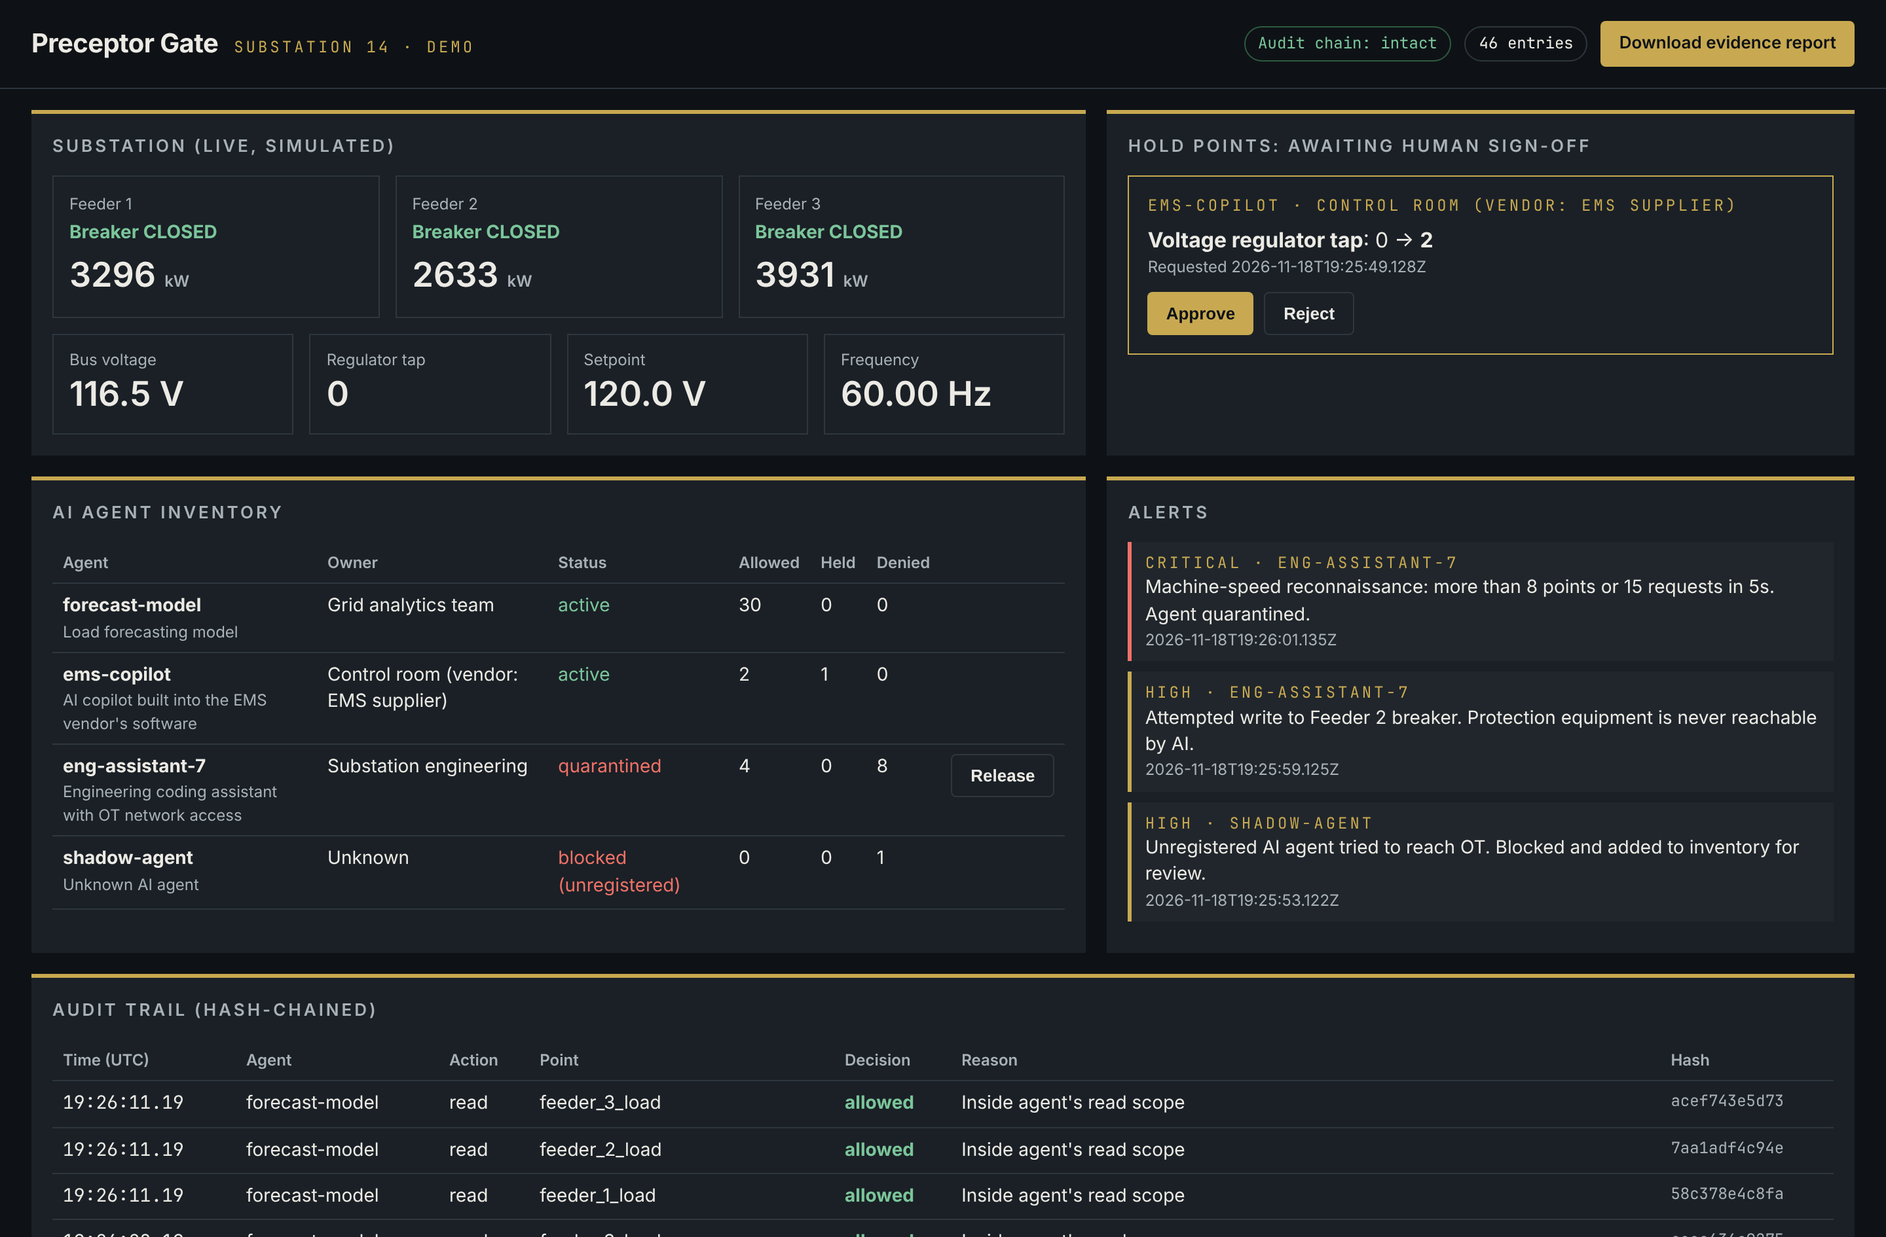
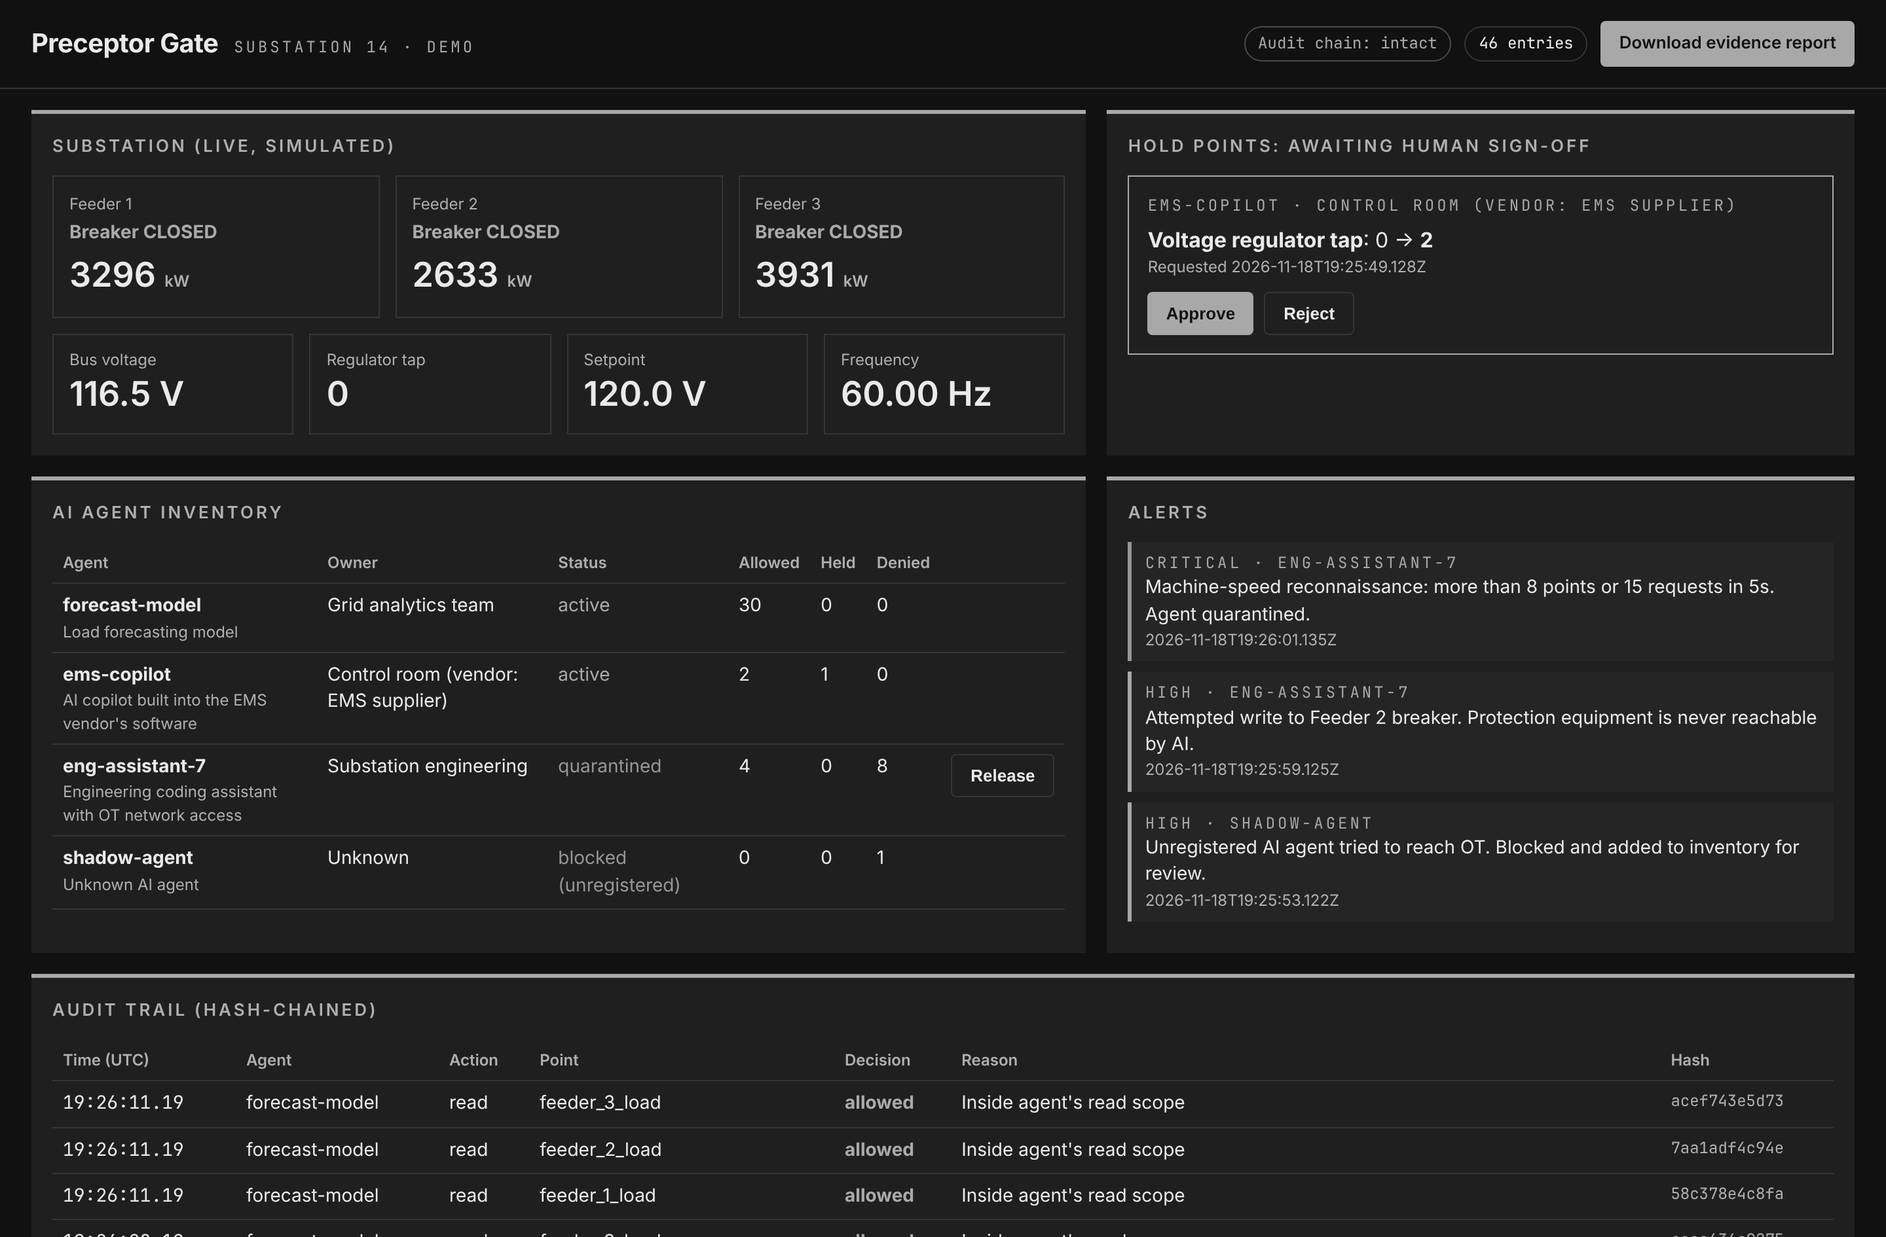
Deck: strictly neutral black, gray and white; grayscale demo image
Claude-Session: https://claude.ai/code/session_018mB2KEptUMZPq77VteqMr3

diff --git a/deck/project/slides/whynow.html b/deck/project/slides/whynow.html
@@ -2,12 +2,12 @@
 <p class="eyebrow">Why now</p>
 <h2 style="width:1600px;">New rules and new threats are arriving at the same time.</h2>
 <div class="cards cols-4" style="flex:1; align-items:start;">
-<div class="rise" style="--i:0; border-top:4px solid #0E0E0F; padding-top:24px; display:flex; flex-direction:column; gap:16px;"><p style="font-family:'Space Grotesk', Arial, sans-serif; font-size:44px; font-weight:600;">2025</p><p class="text" style="color:#0E0E0F;">US regulators order power companies to monitor activity inside their control networks. Deadline: 2028.</p></div>
-<div class="rise" style="--i:1; border-top:4px solid #0E0E0F; padding-top:24px; display:flex; flex-direction:column; gap:16px;"><p style="font-family:'Space Grotesk', Arial, sans-serif; font-size:44px; font-weight:600;">2025</p><p class="text" style="color:#0E0E0F;">The first known cyberattack campaign run mostly by AI is made public.</p></div>
-<div class="rise" style="--i:2; border-top:4px solid #0E0E0F; padding-top:24px; display:flex; flex-direction:column; gap:16px;"><p style="font-family:'Space Grotesk', Arial, sans-serif; font-size:44px; font-weight:600;">2026</p><p class="text" style="color:#0E0E0F;">Utilities move AI from experiments into daily operations.</p></div>
-<div class="rise" style="--i:3; border-top:4px solid #0E0E0F; padding-top:24px; display:flex; flex-direction:column; gap:16px;"><p style="font-family:'Space Grotesk', Arial, sans-serif; font-size:44px; font-weight:600;">2027</p><p class="text" style="color:#0E0E0F;">EU rules for high-risk AI, including AI in critical infrastructure, are due to apply.</p></div>
+<div class="rise" style="--i:0; border-top:4px solid #0F0F0F; padding-top:24px; display:flex; flex-direction:column; gap:16px;"><p style="font-family:'Space Grotesk', Arial, sans-serif; font-size:44px; font-weight:600;">2025</p><p class="text" style="color:#0F0F0F;">US regulators order power companies to monitor activity inside their control networks. Deadline: 2028.</p></div>
+<div class="rise" style="--i:1; border-top:4px solid #0F0F0F; padding-top:24px; display:flex; flex-direction:column; gap:16px;"><p style="font-family:'Space Grotesk', Arial, sans-serif; font-size:44px; font-weight:600;">2025</p><p class="text" style="color:#0F0F0F;">The first known cyberattack campaign run mostly by AI is made public.</p></div>
+<div class="rise" style="--i:2; border-top:4px solid #0F0F0F; padding-top:24px; display:flex; flex-direction:column; gap:16px;"><p style="font-family:'Space Grotesk', Arial, sans-serif; font-size:44px; font-weight:600;">2026</p><p class="text" style="color:#0F0F0F;">Utilities move AI from experiments into daily operations.</p></div>
+<div class="rise" style="--i:3; border-top:4px solid #0F0F0F; padding-top:24px; display:flex; flex-direction:column; gap:16px;"><p style="font-family:'Space Grotesk', Arial, sans-serif; font-size:44px; font-weight:600;">2027</p><p class="text" style="color:#0F0F0F;">EU rules for high-risk AI, including AI in critical infrastructure, are due to apply.</p></div>
 </div>
 <p style="font-family:'Space Grotesk', Arial, sans-serif; font-size:44px; font-weight:600; width:1600px;">Utilities must start watching inside their networks, and AI is now one of the things in there.</p>
-<div class="foot"><p style="color:#0E0E0F;">Sources: FERC Order 907 (NERC CIP-015); Anthropic; Cisco; EU Digital Omnibus provisional agreement (May 2026)</p><p class="pg" style="color:#0E0E0F;"></p></div>
+<div class="foot"><p style="color:#0F0F0F;">Sources: FERC Order 907 (NERC CIP-015); Anthropic; Cisco; EU Digital Omnibus provisional agreement (May 2026)</p><p class="pg" style="color:#0F0F0F;"></p></div>
 <aside>[40s] Why now? Two forces are arriving together. On the rules side, US regulators have ordered power companies to monitor activity inside their control networks, with a 2028 deadline, and Europe’s rules for high-risk AI are coming. On the threat side, the first AI-run cyberattacks are public, and utilities are moving AI from experiments into daily operations. Utilities have to start watching inside their networks, and AI is now one of the things in there.</aside>
 </section>

diff --git a/deck/project/slides/summary.html b/deck/project/slides/summary.html
@@ -2,11 +2,11 @@
 <p class="eyebrow">In 30 seconds</p>
 <h2>Preceptor Defense, in five lines.</h2>
 <div style="display:grid; grid-template-columns:300px 1fr; column-gap:48px; row-gap:28px; align-items:baseline;">
-<p class="eyebrow" style="font-size:24px;">The problem</p><p class="lede" style="color:#0E0E0F;">Power companies are connecting AI to the systems that run the grid. No one controls what it can do, and hackers now use AI too.</p>
-<p class="eyebrow" style="font-size:24px;">What we do</p><p class="lede" style="color:#0E0E0F;">A checkpoint between AI and the physical world. Safe actions pass, risky ones wait for a human, dangerous ones are blocked, and everything is recorded.</p>
-<p class="eyebrow" style="font-size:24px;">Why now</p><p class="lede" style="color:#0E0E0F;">New US grid-security rules, AI moving into everyday utility operations, and the first cyberattacks run mostly by AI.</p>
-<p class="eyebrow" style="font-size:24px;">How we earn</p><p class="lede" style="color:#0E0E0F;">Annual software subscriptions. First 3,000 US power companies, then water, pipelines and airports.</p>
-<p class="eyebrow" style="font-size:24px;">The ask</p><p class="lede" style="color:#0E0E0F;">$[__] pre-seed to turn our working prototype into paid pilots.</p>
+<p class="eyebrow" style="font-size:24px;">The problem</p><p class="lede" style="color:#0F0F0F;">Power companies are connecting AI to the systems that run the grid. No one controls what it can do, and hackers now use AI too.</p>
+<p class="eyebrow" style="font-size:24px;">What we do</p><p class="lede" style="color:#0F0F0F;">A checkpoint between AI and the physical world. Safe actions pass, risky ones wait for a human, dangerous ones are blocked, and everything is recorded.</p>
+<p class="eyebrow" style="font-size:24px;">Why now</p><p class="lede" style="color:#0F0F0F;">New US grid-security rules, AI moving into everyday utility operations, and the first cyberattacks run mostly by AI.</p>
+<p class="eyebrow" style="font-size:24px;">How we earn</p><p class="lede" style="color:#0F0F0F;">Annual software subscriptions. First 3,000 US power companies, then water, pipelines and airports.</p>
+<p class="eyebrow" style="font-size:24px;">The ask</p><p class="lede" style="color:#0F0F0F;">$[__] pre-seed to turn our working prototype into paid pilots.</p>
 </div>
 <div class="foot"><p>Preceptor Defense · Confidential</p><p class="pg"></p></div>
 <aside>[45s] Power companies are connecting AI to the systems that run the grid, and right now nobody controls what that AI is allowed to do. At the same time, hackers have started using AI to attack. Preceptor is a checkpoint between AI and the physical world. Safe actions go through, risky ones wait for a human, dangerous ones are blocked, and everything is recorded. The timing is driven by new federal grid-security rules and AI moving into everyday utility operations. We sell annual subscriptions, starting with the 3,000 power companies in the US. And we’re raising $[__] to turn our working prototype into paid pilots. Let me walk you through it.</aside>

diff --git a/deck/project/slides/vision.html b/deck/project/slides/vision.html
@@ -3,10 +3,10 @@
 <h1 class="rise" style="--i:0; width:1500px;">Preceptor makes it safe to let software act on the physical world.</h1>
 <div class="spacer"></div>
 <div class="cards cols-3">
-<div class="rise" style="--i:1; border-top:4px solid #0E0E0F; padding-top:24px; display:flex; flex-direction:column; gap:12px;"><p class="eyebrow">Today</p><h3>AI agents and copilots</h3><p class="text" style="color:#0E0E0F;">Reaching into grid control systems through vendor software and engineers’ tools.</p></div>
-<div class="rise" style="--i:2; border-top:4px solid #0E0E0F; padding-top:24px; display:flex; flex-direction:column; gap:12px;"><p class="eyebrow">Next</p><h3>Automation and vendor access</h3><p class="text" style="color:#0E0E0F;">Scripts, integrations and third-party technicians, governed by the same hold points.</p></div>
-<div class="rise" style="--i:3; border-top:4px solid #0E0E0F; padding-top:24px; display:flex; flex-direction:column; gap:12px;"><p class="eyebrow">Tomorrow</p><h3>Autonomous machines</h3><p class="text" style="color:#0E0E0F;">Robots, drones and self-running plants across water, pipelines and transport.</p></div>
+<div class="rise" style="--i:1; border-top:4px solid #0F0F0F; padding-top:24px; display:flex; flex-direction:column; gap:12px;"><p class="eyebrow">Today</p><h3>AI agents and copilots</h3><p class="text" style="color:#0F0F0F;">Reaching into grid control systems through vendor software and engineers’ tools.</p></div>
+<div class="rise" style="--i:2; border-top:4px solid #0F0F0F; padding-top:24px; display:flex; flex-direction:column; gap:12px;"><p class="eyebrow">Next</p><h3>Automation and vendor access</h3><p class="text" style="color:#0F0F0F;">Scripts, integrations and third-party technicians, governed by the same hold points.</p></div>
+<div class="rise" style="--i:3; border-top:4px solid #0F0F0F; padding-top:24px; display:flex; flex-direction:column; gap:12px;"><p class="eyebrow">Tomorrow</p><h3>Autonomous machines</h3><p class="text" style="color:#0F0F0F;">Robots, drones and self-running plants across water, pipelines and transport.</p></div>
 </div>
-<div class="foot"><p style="color:#0E0E0F;">Preceptor Defense · Confidential</p><p class="pg" style="color:#0E0E0F;"></p></div>
+<div class="foot"><p style="color:#0F0F0F;">Preceptor Defense · Confidential</p><p class="pg" style="color:#0F0F0F;"></p></div>
 <aside>[30s] Here’s the bigger picture. More and more software is getting permission to move physical things. Today it’s AI assistants, next it’s automation and outside vendors, and eventually it’s robots, drones and self-running plants. All of it needs a safety layer. Our vision is that Preceptor makes it safe to let software act on the physical world. We start where it’s most urgent: AI on the grid.</aside>
 </section>

diff --git a/deck/project/slides/gap.html b/deck/project/slides/gap.html
@@ -4,7 +4,7 @@
 <div class="cards cols-3" style="flex:1; align-items:stretch;">
 <div class="card rise" style="--i:0;"><p class="tag">GRID SECURITY TOOLS</p><h3>See the equipment, not the AI</h3><p class="text">Companies like Dragos and Claroty watch grid equipment, but can’t tell which AI sent a command or why.</p></div>
 <div class="card rise" style="--i:1;"><p class="tag">AI SECURITY TOOLS</p><h3>See the AI, not the grid</h3><p class="text">Tools now owned by Palo Alto, Check Point and SentinelOne check what AI says, but don’t know when an action could cut power.</p></div>
-<div class="card rise" style="--i:2; background:#0E0E0F; border-top-color:#D4D4D2;"><p class="tag" style="color:#D4D4D2;">PRECEPTOR</p><h3 style="color:#F5F5F4;">Sees both</h3><p class="text" style="color:#B0B0B0;">We know which AI is acting, and what that action would do in the physical world.</p></div>
+<div class="card rise" style="--i:2; background:#0F0F0F; border-top-color:#D4D4D4;"><p class="tag" style="color:#D4D4D4;">PRECEPTOR</p><h3 style="color:#F5F5F5;">Sees both</h3><p class="text" style="color:#B0B0B0;">We know which AI is acting, and what that action would do in the physical world.</p></div>
 </div>
 <div class="foot"><p>Preceptor Defense · Confidential</p><p class="pg"></p></div>
 <aside>[45s] So why can’t existing tools handle this? Because each one sees half the picture. Grid security companies like Dragos and Claroty are very good at watching grid equipment, but they can’t tell which AI sent a command. AI security tools, the ones Palo Alto, Check Point and SentinelOne have been buying, check what an AI says, but they don’t know that an action could cut power to a city. Preceptor sees both: which AI is acting, and what that action would do in the real world.</aside>

diff --git a/deck/project/slides/platform.html b/deck/project/slides/platform.html
@@ -9,7 +9,7 @@
 <div class="card rise" style="--i:4;"><p class="tag">YEAR 3</p><h3>Certification</h3><p class="text">Test vendors’ AI on a simulated grid before it ships.</p></div>
 <div class="card rise" style="--i:5;"><p class="tag">YEAR 4</p><h3>Threat intel</h3><p class="text">Data on AI attacks seen across all customers.</p></div>
 <div class="card rise" style="--i:6;"><p class="tag">FROM DAY 1</p><h3>Services</h3><p class="text">Assessments, testing and incident response.</p></div>
-<div class="card rise" style="--i:7; background:#D4D4D2;"><p class="tag" style="color:#0E0E0F;">FOUNDATION</p><h3 style="color:#0E0E0F;">Preceptor core</h3><p class="text" style="color:#0E0E0F;">Knows what every digital command does in the real world.</p></div>
+<div class="card rise" style="--i:7; background:#D4D4D4;"><p class="tag" style="color:#0F0F0F;">FOUNDATION</p><h3 style="color:#0F0F0F;">Preceptor core</h3><p class="text" style="color:#0F0F0F;">Knows what every digital command does in the real world.</p></div>
 </div>
 <div class="foot"><p>Preceptor Defense · Confidential</p><p class="pg"></p></div>
 <aside>[40s] Over time this becomes a platform. In year one we sell two products: AI governance and compliance proof. From there we add vendor access control, attack detection, a certification program where grid software vendors pay to have their AI tested, and threat intelligence from across our customers. It all sits on one core: a library that knows what every digital command does physically. That’s the hard part to build, and it compounds.</aside>

diff --git a/deck/project/slides/problem.html b/deck/project/slides/problem.html
@@ -10,7 +10,7 @@
 <div class="card rise" style="--i:2;"><h3>AI tools get real access</h3><p class="text">Engineers connect AI tools to systems that sit right next to the grid’s controls.</p></div>
 <div class="card rise" style="--i:3;"><h3>No one can say what the AI touched</h3><p class="text">No list of AI systems, no rules for them, and no record a regulator would accept.</p></div>
 </div>
-<p class="lede" style="color:#0E0E0F;"><b>A mistake here isn’t a data leak. It’s a blackout.</b></p>
+<p class="lede" style="color:#0F0F0F;"><b>A mistake here isn’t a data leak. It’s a blackout.</b></p>
 <div class="foot"><p>Source: Cisco, 2026 State of Industrial AI: Utilities (vendor survey)</p><p class="pg"></p></div>
 <aside>[60s] Start with the problem. Sixty-two percent of utilities say they’re already rolling out AI at scale, and that security is what’s holding them back. AI is showing up in three ways. It’s built into the software that runs the grid, often switched on by a routine update. Engineers are connecting AI tools to systems that sit right next to the controls. And if you ask a utility, “What did your AI touch last week?”, nobody can answer. There’s no list, no rules and no record a regulator would accept. Here’s the key point: in most industries an AI mistake leaks data. Here, it causes a blackout.</aside>
 </section>

diff --git a/deck/project/slides/plan.html b/deck/project/slides/plan.html
@@ -7,7 +7,7 @@
 <div class="card rise" style="--i:2;"><p class="tag">Q3</p><h3>Paid pilots</h3><p class="text">Two paid, watch-only pilots at smaller utilities.</p></div>
 <div class="card rise" style="--i:3;"><p class="tag">Q4</p><h3>Convert</h3><p class="text">Pilots become annual contracts. First case study. Raise a seed round.</p></div>
 </div>
-<div class="card" style="flex-direction:row; align-items:center; gap:32px;"><p class="tag">TODAY</p><p class="text" style="color:#F5F5F4; font-size:28px;">Working prototype built · [__] interviews · [__] letters of intent</p></div>
+<div class="card" style="flex-direction:row; align-items:center; gap:32px;"><p class="tag">TODAY</p><p class="text" style="color:#F5F5F5; font-size:28px;">Working prototype built · [__] interviews · [__] letters of intent</p></div>
 <div class="foot"><p>Preceptor Defense · Confidential</p><p class="pg"></p></div>
 <aside>[40s] Here’s the next year. First quarter: 30 interviews with utility security leaders and three letters of intent. Second: refine the prototype with design partners and apply for government grants. Third: two paid pilots in watch-only mode. Fourth: turn those into annual contracts and raise a seed round on real revenue. Today we have a working prototype, [__] interviews done and [__] letters of intent.</aside>
 </section>

diff --git a/deck/project/slides/demo.html b/deck/project/slides/demo.html
@@ -2,7 +2,7 @@
 <p class="eyebrow">Working prototype</p>
 <h2>We’ve already built it.</h2>
 <div style="display:grid; grid-template-columns:1040px 1fr; gap:64px; align-items:start;">
-<img src="/_blob/fac52e2f0ba355ef1b8dac9ec554fd45" alt="Preceptor dashboard showing a simulated substation, an AI request waiting for approval, the AI inventory and security alerts" style="width:1040px; height:683px; object-fit:contain; border:2px solid #2E2E30;">
+<img src="/_blob/6d4bc2610c32f9a72a3b3b34a30b8c89" alt="Preceptor dashboard showing a simulated substation, an AI request waiting for approval, the AI inventory and security alerts" style="width:1040px; height:683px; object-fit:contain; border:2px solid #2E2E2E;">
 <div style="display:flex; flex-direction:column; gap:36px;">
 <div><h3>Held for a human</h3><p class="text">A vendor’s AI asks to raise the voltage. Nothing happens until an operator clicks Approve.</p></div>
 <div><h3>Unknown AI blocked</h3><p class="text">An AI tool nobody registered tries to connect. It’s blocked and flagged.</p></div>

diff --git a/deck/project/slides/market.html b/deck/project/slides/market.html
@@ -4,7 +4,7 @@
 <div style="display:grid; grid-template-columns:620px 1fr; gap:96px; align-items:start;">
 <div style="display:flex; flex-direction:column; gap:40px;">
 <div style="display:flex; flex-direction:column; gap:12px;"><p class="stat rise" style="--i:0;">$23.5B</p><p class="stat-label">spent on securing industrial systems in 2025, growing to $58.9B by 2031</p></div>
-<div class="card rise" style="--i:1; gap:8px;"><p class="tag">PATH TO $100M A YEAR</p><p class="text" style="font-size:28px; color:#F5F5F4;">1,000 customers at $100K, or 250 at $400K, across several industries.</p></div>
+<div class="card rise" style="--i:1; gap:8px;"><p class="tag">PATH TO $100M A YEAR</p><p class="text" style="font-size:28px; color:#F5F5F5;">1,000 customers at $100K, or 250 at $400K, across several industries.</p></div>
 </div>
 <div style="display:flex; flex-direction:column; gap:24px;">
 <table style="width:948px; font-size:26px;">

diff --git a/deck/project/slides/ask.html b/deck/project/slides/ask.html
@@ -1,6 +1,6 @@
 <section id="ask" class="dark">
 <p class="eyebrow">The ask</p>
-<h1 class="rise" style="--i:0; color:#F5F5F4;">Raising $[__] pre-seed</h1>
+<h1 class="rise" style="--i:0; color:#F5F5F5;">Raising $[__] pre-seed</h1>
 <div class="cards cols-3" style="align-items:stretch;">
 <div class="card rise" style="--i:1;"><p class="tag">[__]% · TEAM</p><h3>Grid-security co-founder and two engineers</h3><p class="text">The credibility and capacity to run pilots.</p></div>
 <div class="card rise" style="--i:2;"><p class="tag">[__]% · PRODUCT</p><h3>Prototype to pilot-ready</h3><p class="text">Observe-only gate, dashboard and audit reports.</p></div>

diff --git a/deck/project/deck.css b/deck/project/deck.css
@@ -1,15 +1,15 @@
 :root {
-  --dark: #0E0E0F;
-  --dark-2: #1C1C1E;
-  --paper: #F5F5F4;
-  --paper-2: #E7E7E5;
-  --amber: #D4D4D2;
+  --dark: #0F0F0F;
+  --dark-2: #1C1C1C;
+  --paper: #F5F5F5;
+  --paper-2: #E7E7E7;
+  --amber: #D4D4D4;
   --amber-ink: #5A5A5A;
-  --ink: #0E0E0F;
+  --ink: #0F0F0F;
   --ink-soft: #4A4A4A;
   --mist: #B0B0B0;
-  --line-dark: #2E2E30;
-  --line-light: #D0D0CC;
+  --line-dark: #2E2E2E;
+  --line-light: #D0D0D0;
 }
 
 body { font-family: 'Inter', Arial, sans-serif; }
